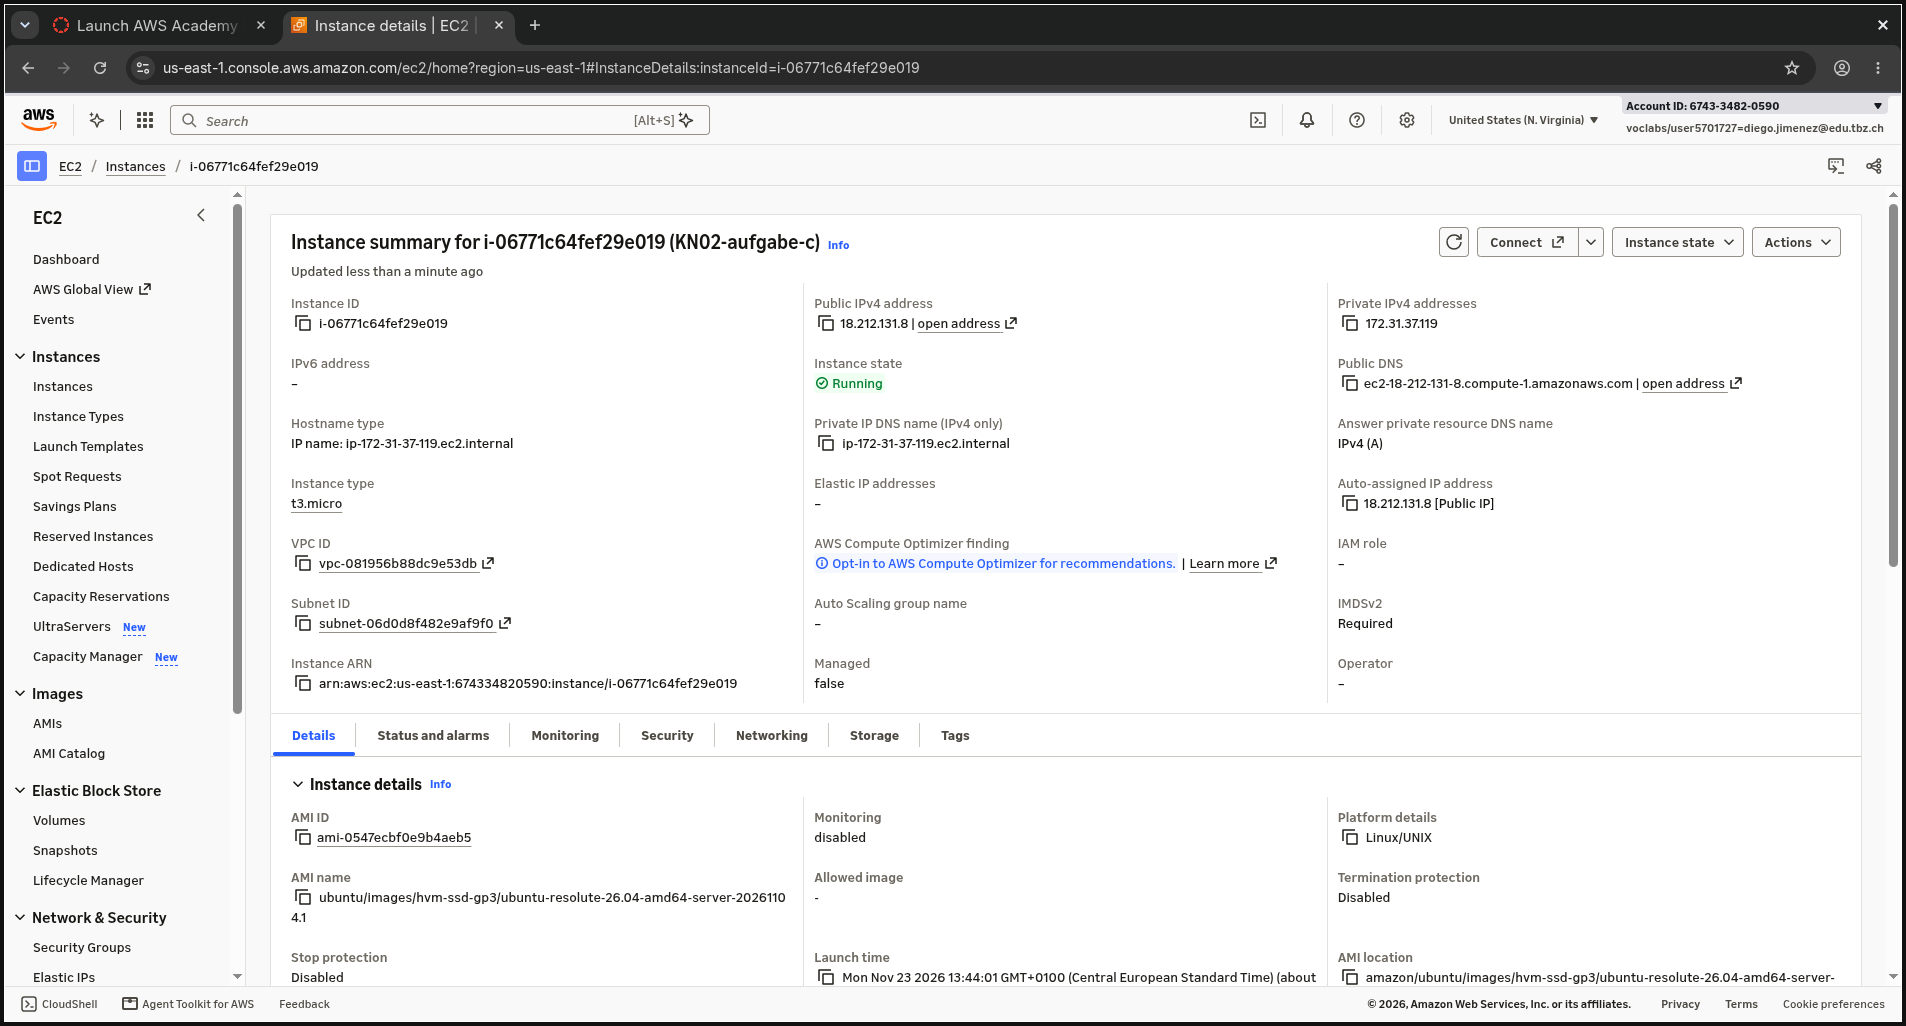
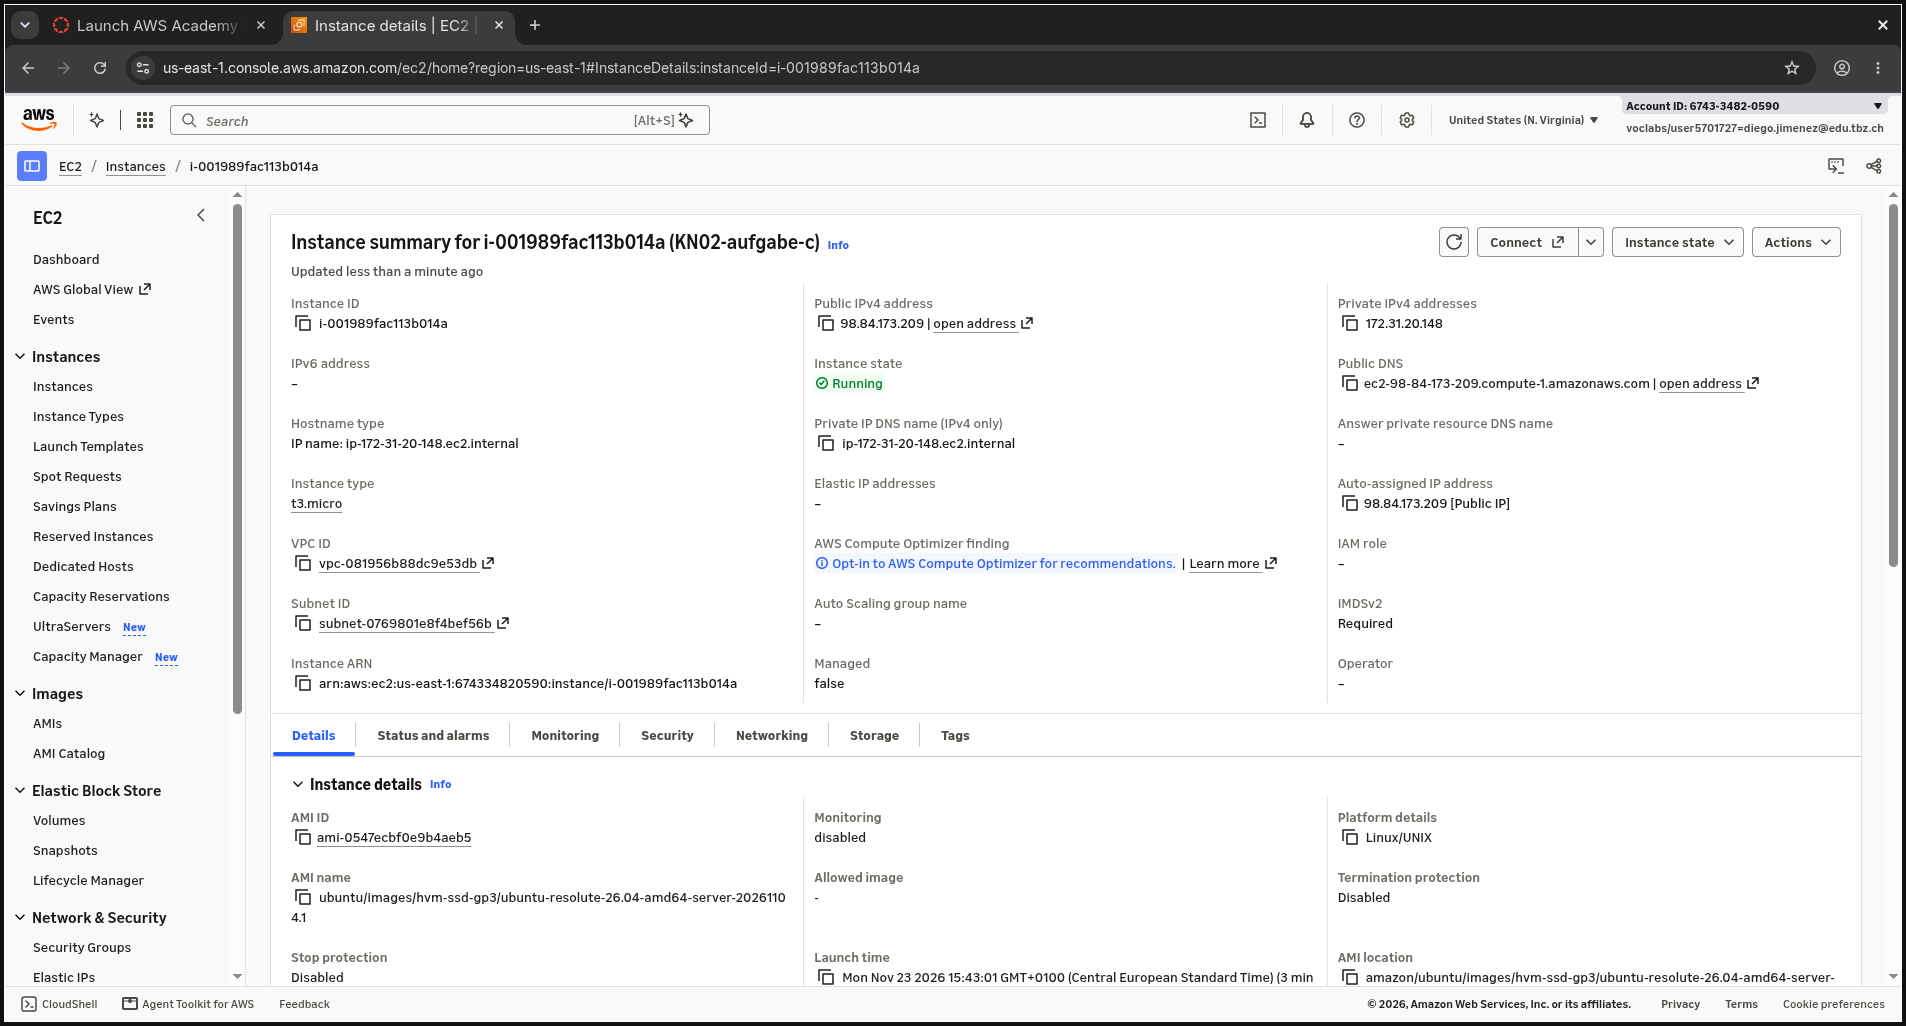
KN02: address feedback
Redo C1 logins with explicit user@hostname commands on a rebuilt
KN02-aufgabe-c instance (same AMI, t3.micro, key pair diego2, same
user data) and new console screenshots. Separate allocated vs. visible
disk/RAM and name vCPUs, sharpen template comments and rewrite the
portability/IaC reflection.

diff --git a/KN02/README.md b/KN02/README.md
@@ -10,11 +10,13 @@
 | Instanz | Teil | Key Pair (GUI) | Öffentliche IP | Benutzer / Schlüssel |
 | --- | --- | --- | --- | --- |
 | `KN02` | B | `diego1` | `52.91.73.199` | `ubuntu` mit `diego1` |
-| `KN02-aufgabe-c` | C | `diego2` | `18.212.131.8` | `ubuntu` mit `diego2`, `diego` mit `diego1` (aus cloud-init) |
+| `KN02-aufgabe-c` | C | `diego2` | `98.84.173.209` | `ubuntu` mit `diego2`, `diego` mit `diego1` (aus cloud-init) |
 
 Beide Instanzen: Ubuntu Server 26.04, Typ `t3.micro`, Region `us-east-1`.
 
-Die öffentlichen IPs in der Tabelle sind vom 23.11.2026. Am Ende jeder Lab-Session werden die Instanzen gestoppt, und beim nächsten Start vergibt AWS eine **neue öffentliche IP**. Darum zeigen die SSH-Screenshots vom 16.11.2026 andere Adressen (z. B. `ec2-54-144-37-63...`). Die private IP bleibt gleich: `KN02` hat immer `172.31.35.111`, `KN02-aufgabe-c` immer `172.31.37.119` (sichtbar im Prompt `ip-172-31-...`).
+Die öffentlichen IPs in der Tabelle sind vom 23.11.2026. Am Ende jeder Lab-Session werden die Instanzen gestoppt, und beim nächsten Start vergibt AWS eine **neue öffentliche IP**. Darum zeigen die SSH-Screenshots vom 16.11.2026 andere Adressen (z. B. `ec2-54-144-37-63...`). Die private IP bleibt gleich: `KN02` hat immer `172.31.35.111` (sichtbar im Prompt `ip-172-31-35-111`).
+
+**Hinweis zur Instanz `KN02-aufgabe-c`:** Die ursprüngliche C-Instanz (`i-06771c64fef29e019`, private IP `172.31.37.119`) habe ich am 23.11.2026 zu früh terminiert. Für die korrigierten C1-Nachweise habe ich sie am 23.11.2026 mit genau denselben Einstellungen neu erstellt, diesmal mit OpenTofu statt über das GUI (Wissen aus KN03): gleiches AMI (`ami-0547ecbf0e9b4aeb5`, Ubuntu 26.04), `t3.micro`, Key Pair `diego2`, Security Group `launch-wizard-2` aus KN02 und [cloud-init-kn01.yaml](./cloud-init-kn01.yaml) als User Data. Die neue Instanz heisst wieder `KN02-aufgabe-c` (`i-001989fac113b014a`, private IP `172.31.20.148`). Die C1-Screenshots zeigen diese neue Instanz, die C2-Screenshots stammen noch von der ursprünglichen (`ip-172-31-37-119`).
 
 ## A) Learner Lab einrichten
 
@@ -40,15 +42,14 @@ Instanz-Details von `KN02` (`i-0934296988778e843`): oben die öffentliche IP `52
 
 ![Instanz-Details KN02: Key pair diego1](./img/b2_instance_details_2.png)
 
-Eigenschaften der Instanz:
+Eigenschaften der Instanz. AWS weist dem Instanztyp `t3.micro` und dem Image feste Grössen zu. Im Gast (Ubuntu) ist davon etwas weniger nutzbar, weil das Dateisystem und der Kernel selbst Platz brauchen:
 
-| Was | Wert |
-| --- | --- |
-| Disk-Grösse | 6.61 GiB |
-| Betriebssystem | Ubuntu 26.04.1 LTS (Resolute Raccoon) |
-| RAM | 908.63 MiB |
-| CPU-Modell | Intel(R) Xeon(R) Platinum 8259CL |
-| Anzahl CPUs | 2 |
+| Was | Zugewiesen (AWS) | Im Gast sichtbar / nutzbar |
+| --- | --- | --- |
+| Disk | 8 GiB EBS-Volume (gp3, Grösse aus dem Ubuntu-AMI) | 6.61 GB Root-Dateisystem `/` (Login-Meldung «Usage of /: … of 6.61GB») |
+| RAM | 1 GiB (Instanztyp `t3.micro`) | 908.63 MiB (`free -h`), der Rest ist vom Kernel und der Firmware reserviert |
+| CPU | 2 vCPUs (`t3.micro`: 1 physischer Kern mit 2 Threads) | 2 vCPUs, Modell Intel(R) Xeon(R) Platinum 8259CL |
+| Betriebssystem | AMI Ubuntu Server 26.04 (`ami-0547ecbf0e9b4aeb5`) | Ubuntu 26.04.1 LTS (Resolute Raccoon) |
 
 Mit dem **ersten** Schlüssel (`diego1`) konnte ich mich verbinden:
 
@@ -70,21 +71,23 @@ Der öffentliche Schlüssel von `diego1` steht genau so in `authorized_keys`, de
 
 Ich habe meine `cloud-init-kn01.yaml` aus KN01 im `users`-Block um meinen öffentlichen Schlüssel `diego1` erweitert ([cloud-init-kn01.yaml](./cloud-init-kn01.yaml)). Die Instanz `KN02-aufgabe-c` habe ich mit dem Key Pair **`diego2`** erstellt und die Datei ins Feld **User data** kopiert.
 
-Instanz-Details von `KN02-aufgabe-c` (`i-06771c64fef29e019`): öffentliche IP `18.212.131.8` bzw. DNS `ec2-18-212-131-8.compute-1.amazonaws.com`, und weiter unten **Key pair assigned at launch** = `diego2`:
+Instanz-Details von `KN02-aufgabe-c` (`i-001989fac113b014a`): Zustand *Running*, Typ `t3.micro`, öffentliche IP `98.84.173.209` bzw. DNS `ec2-98-84-173-209.compute-1.amazonaws.com`, und weiter unten **Key pair assigned at launch** = `diego2`:
 
 ![Instanz-Details KN02-aufgabe-c: öffentliche IP](./img/c1_instance_details_1.png)
 
 ![Instanz-Details KN02-aufgabe-c: Key pair diego2](./img/c1_instance_details_2.png)
 
-Login als Standardbenutzer `ubuntu` mit dem **zweiten** Schlüssel (`diego2`, aus dem GUI): funktioniert.
+Für die drei Logins verwende ich den Hostnamen direkt im Befehl (Form `benutzer@hostname`), damit Benutzer, Schlüssel und Instanz eindeutig sichtbar sind.
+
+Login als Standardbenutzer `ubuntu` mit dem **zweiten** Schlüssel (`diego2`, aus dem GUI) mit `ssh -i ~/.ssh/diego2.pem ubuntu@ec2-98-84-173-209.compute-1.amazonaws.com`: funktioniert. Der Prompt zeigt `ubuntu@ip-172-31-20-148`, `whoami` gibt `ubuntu` aus.
 
 ![ubuntu mit diego2: Erfolg](./img/ubuntu_login_ssh.png)
 
-Login als mein cloud-init-Benutzer `diego` mit dem **ersten** Schlüssel (`diego1`, aus cloud-init): funktioniert.
+Login als mein cloud-init-Benutzer `diego` mit dem **ersten** Schlüssel (`diego1`, aus cloud-init) mit `ssh -i ~/.ssh/diego1.pem diego@ec2-98-84-173-209.compute-1.amazonaws.com`: funktioniert. Der Prompt zeigt `diego@ip-172-31-20-148`, `whoami` gibt `diego` aus.
 
 ![diego mit diego1: Erfolg](./img/diego_login_ssh.png)
 
-Login als `diego` mit dem **zweiten** Schlüssel: wird abgelehnt.
+Login als `diego` mit dem **zweiten** Schlüssel mit `ssh -i ~/.ssh/diego2.pem diego@ec2-98-84-173-209.compute-1.amazonaws.com`: wird mit `Permission denied (publickey)` abgelehnt, weil `diego2` nicht in `/home/diego/.ssh/authorized_keys` steht.
 
 ![diego mit diego2: Ablehnung](./img/diego_login_failed.png)
 
@@ -108,7 +111,7 @@ Datei: [cloud-init-template.yaml](./cloud-init-template.yaml). Gegenüber C1 ent
 2. **Härtung:** `ssh_pwauth: false` schaltet den SSH-Login mit Passwort aus, es geht nur noch mit Schlüssel (kein Passwort-Erraten möglich). `disable_root: true` verbietet den direkten SSH-Login als `root`. Admin-Befehle laufen nur über einen normalen Benutzer mit `sudo`.
 3. **`package_update: true`:** Beim ersten Boot wird der Paketindex aktualisiert (`apt-get update`), damit die Pakete unter `packages` in der aktuellen Version gefunden und installiert werden können.
 
-**Reflexion:** Meine cloud-init-Datei aus KN01 lief lokal in Multipass und, um einen Schlüssel erweitert, unverändert in AWS. Die Konfiguration ist also portabel: Sie beschreibt nur, wie das Betriebssystem eingerichtet werden soll, und jede Plattform mit cloud-init (Multipass, AWS, Azure, …) führt sie beim ersten Boot gleich aus. Eine Grenze ist, dass sich Paketnamen oder Pfade je nach Image unterscheiden können, z. B. auf einer anderen Linux-Distribution. Mit GUI-Klicks ist das prinzipiell unmöglich, weil die Klicks nirgends gespeichert sind: Man müsste sie auf jeder Plattform und für jede VM von Hand wiederholen, und die Oberflächen von Multipass und AWS sind völlig verschieden. Eine Datei dagegen kann ich versionieren, kopieren und beliebig oft wiederverwenden.
+**Reflexion:** Meine cloud-init-Datei aus KN01 lief lokal in Multipass und, nur um meinen öffentlichen Schlüssel erweitert, auch in AWS. Das funktioniert, weil beide Umgebungen ein Ubuntu-Cloud-Image mit cloud-init starten und cloud-init dieselbe deklarative Konfiguration beim ersten Boot gleich verarbeitet, egal ob sie von Multipass oder aus dem AWS-Feld «User data» kommt. Genau das ist eine Kerneigenschaft von Infrastructure as Code: Die Konfiguration liegt als Datei im Repository, ist versioniert und erzeugt bei jeder Ausführung reproduzierbar dasselbe Ergebnis. Bei GUI-Klicks gibt es dagegen keine Datei, die man übertragen könnte: Jeder Schritt muss in jeder Oberfläche von Hand wiederholt werden, ist nirgends festgehalten und kann jedes Mal etwas anders ausfallen. Universell ist die Datei aber nicht: Sie setzt ein Image mit cloud-init voraus und kann scheitern, wenn Paketnamen oder Pfade auf einem anderen System anders sind.
 
 ## Lernziele
 
